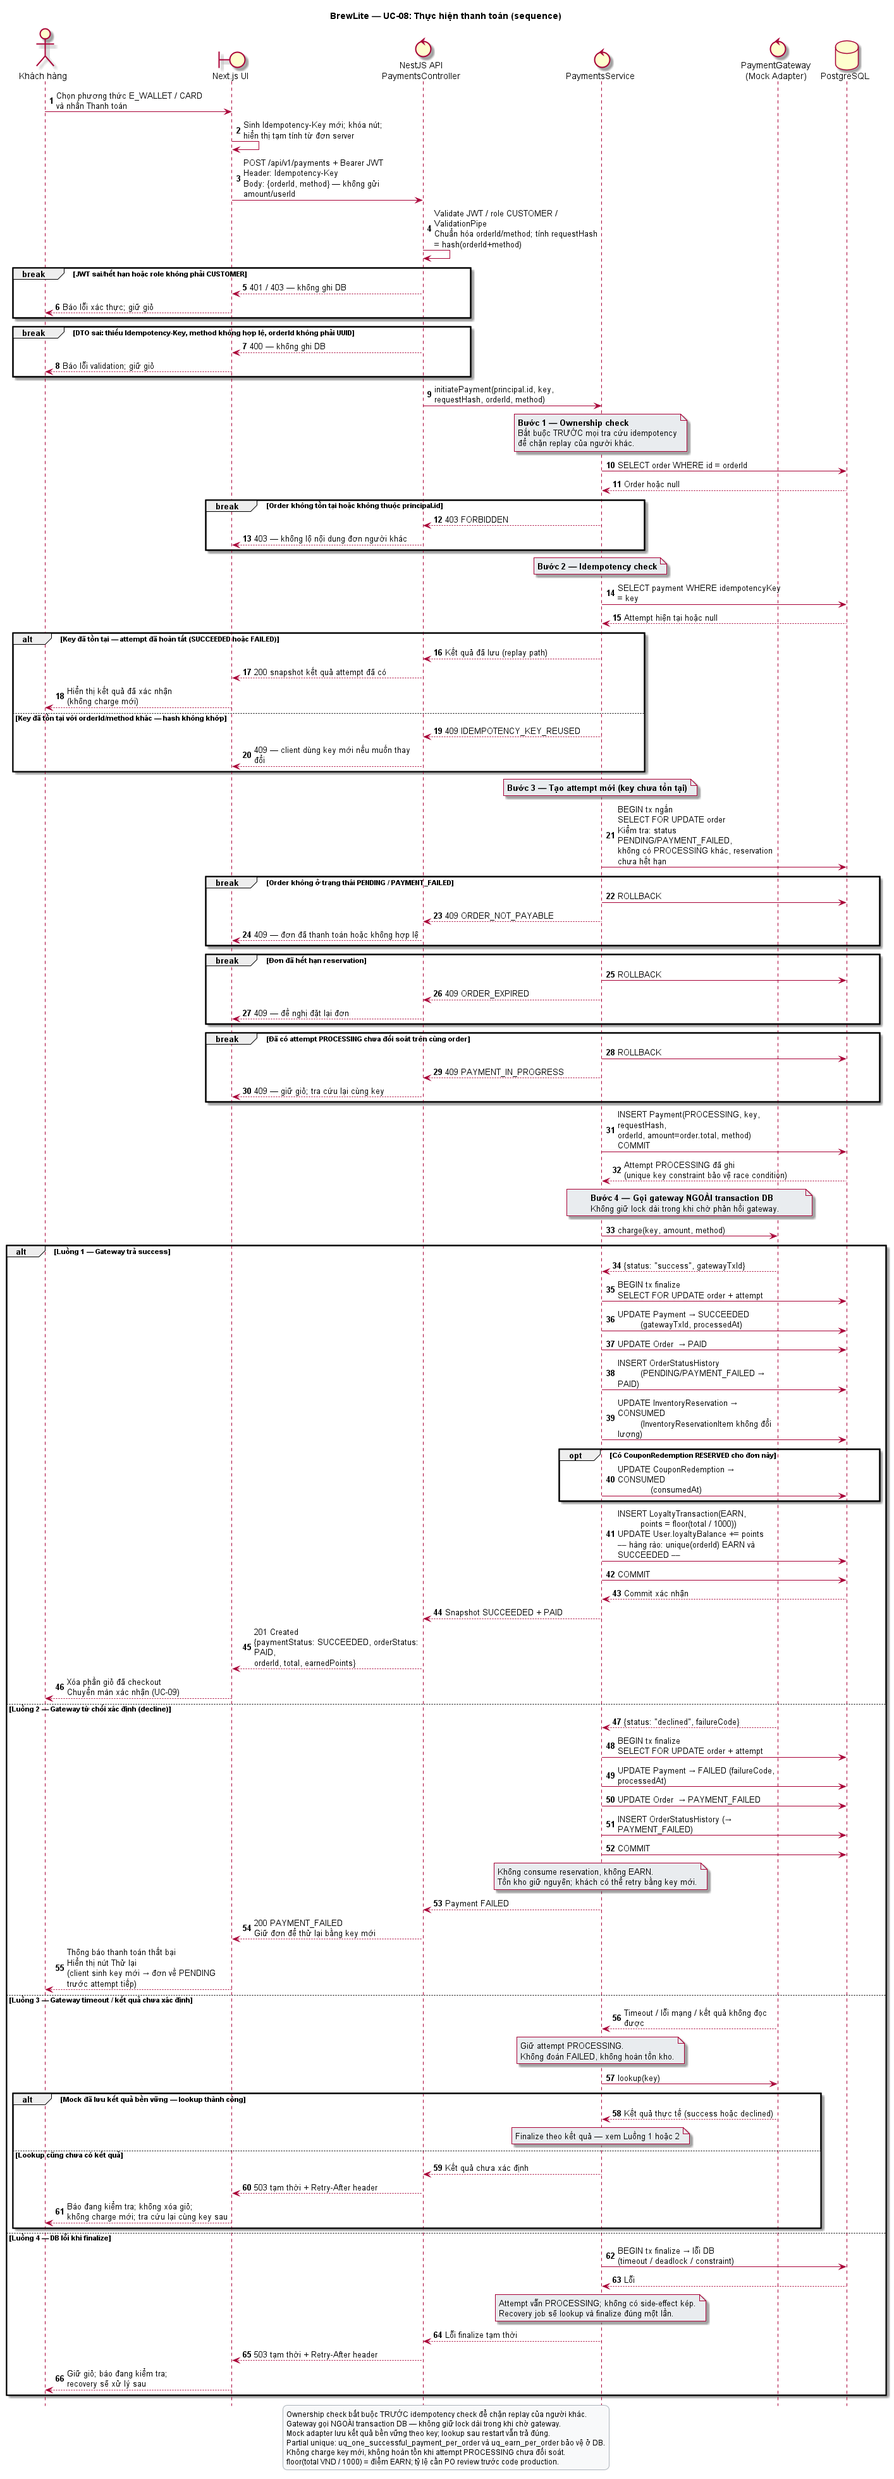
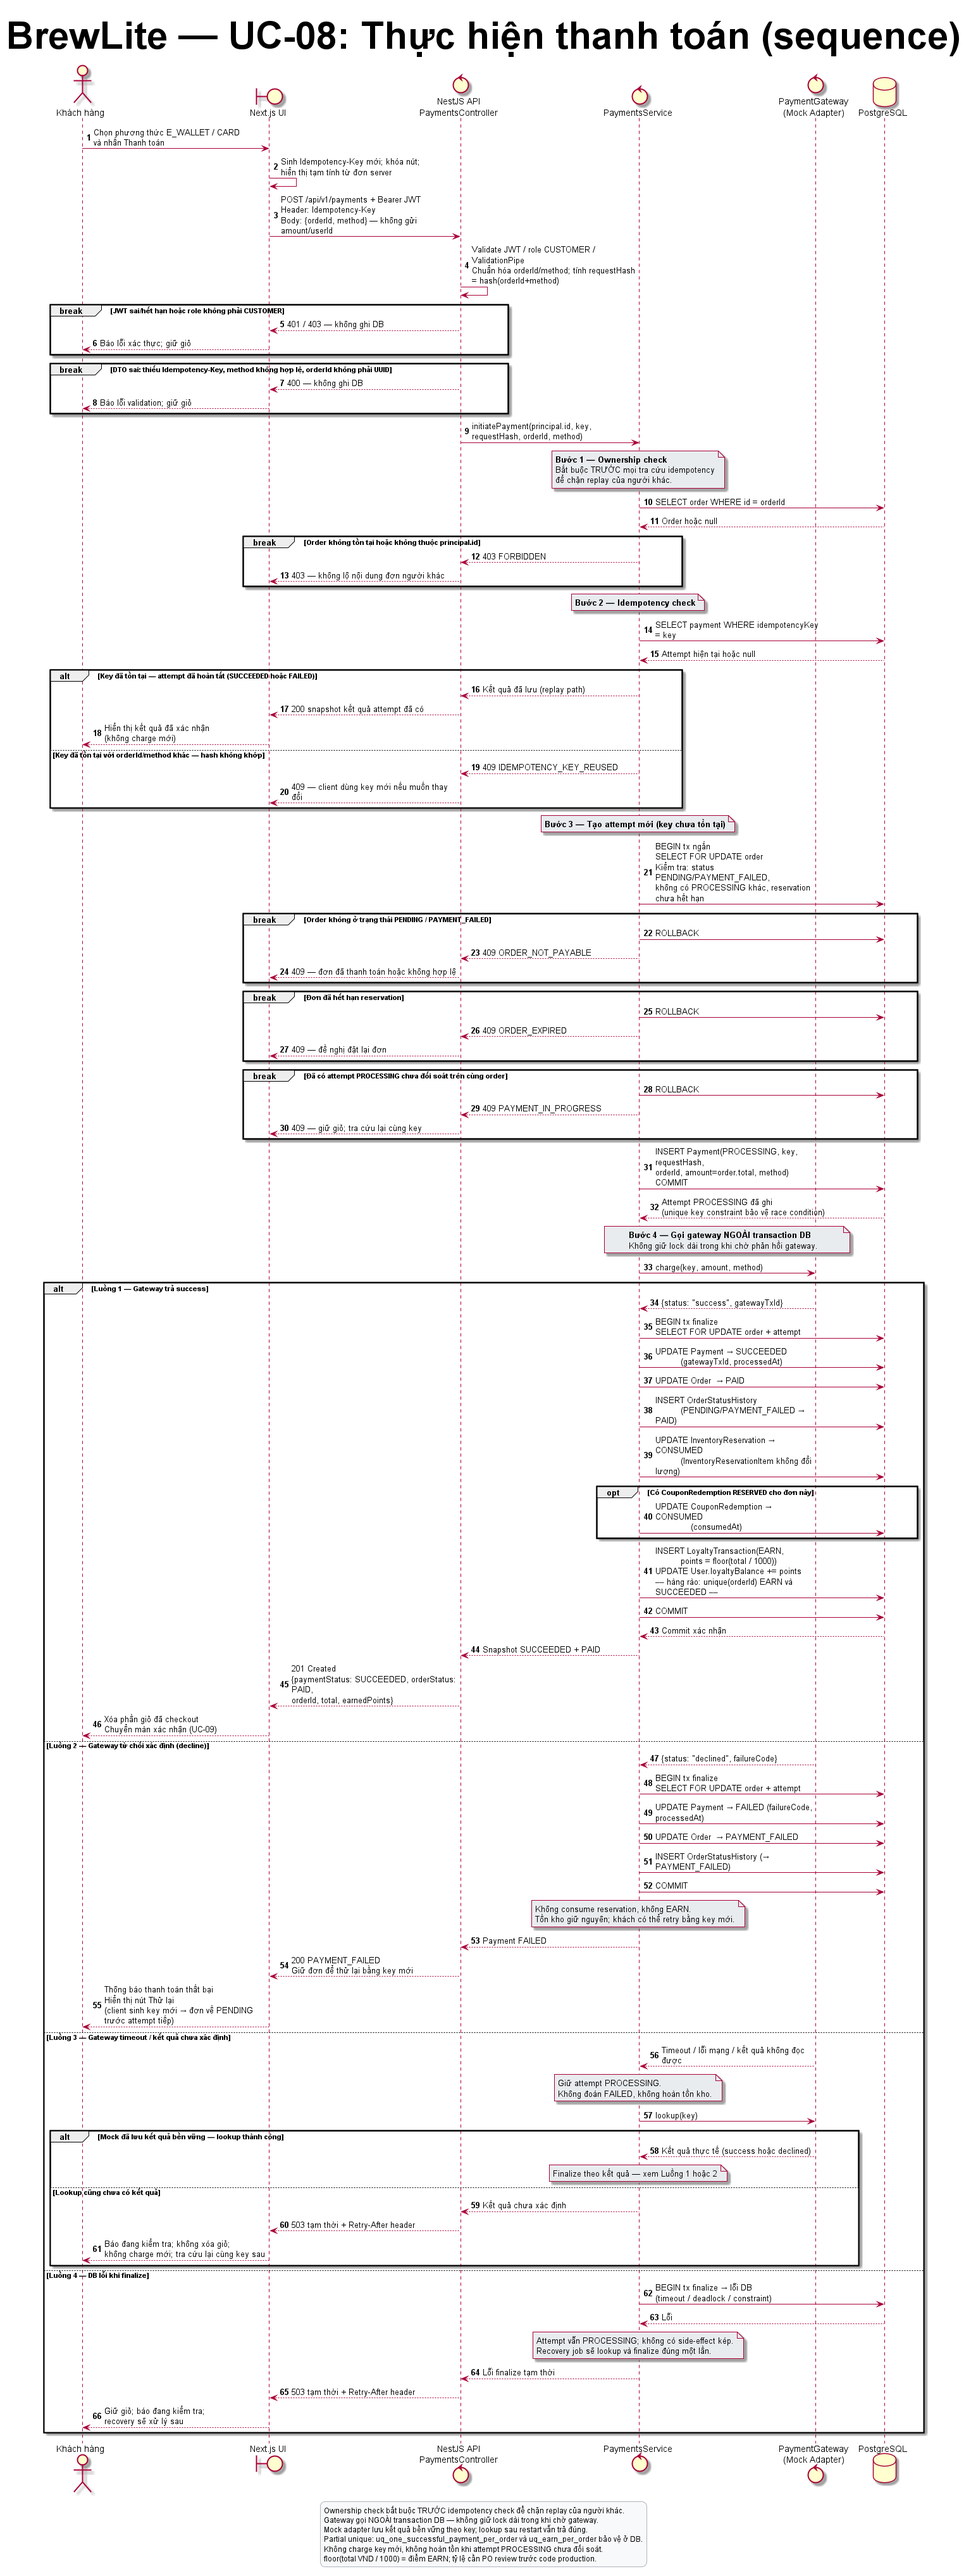
cập nhật → sửa lỗi `"hide footbox" is not applied to sequence diagrams by this converter` + Làm sạch toàn bộ ký tự khoảng trắng ẩn (U+00A0) về dấu cách tiêu chuẩn (U+0020) đối với sơ đồ sequence.
Cập nhật đường dẫn chính xác trong file đặc tả

diff --git a/docs/requirements/uc-08-thanh-toan.md b/docs/requirements/uc-08-thanh-toan.md
@@ -2,7 +2,7 @@
 
 Phiên bản 1.0 · 06/11/2026 · [A2-1.3.2 / #6](https://github.com/akira-yami/BrewLite_A2/issues/6).
 
-[Nguồn PlantUML use-case](../diagrams/use-case-uc08.puml) · [SVG](../diagrams/use-case-uc08.svg) · [PNG](../diagrams/use-case-uc08.png) · [Chỉnh sửa trực tuyến (draw.io)](https://app.diagrams.net/#G1FNDTtNJdXpwdBC4I4odtzJzhnXiy5YuZ#%7B%22pageId%22%3A%22ZMIl_fwBii4pXiM0QtPu%22%7D)
+[Nguồn PlantUML use-case](../diagrams/use-case-uc08.puml) · [SVG](../diagrams/use-case-uc08.svg) · [PNG](../diagrams/use-case-uc08.png) · [Chỉnh sửa trực tuyến (draw.io)](https://app.diagrams.net/#G1iec3HEIGhhwMGesnvXXwvqJSkOI5Z0jw#%7B%22pageId%22%3A%22GQHZdUctXlZdyJI08YLY%22%7D)
 
 ![UC-08: Thực hiện thanh toán](../diagrams/use-case-uc08.png)
 
